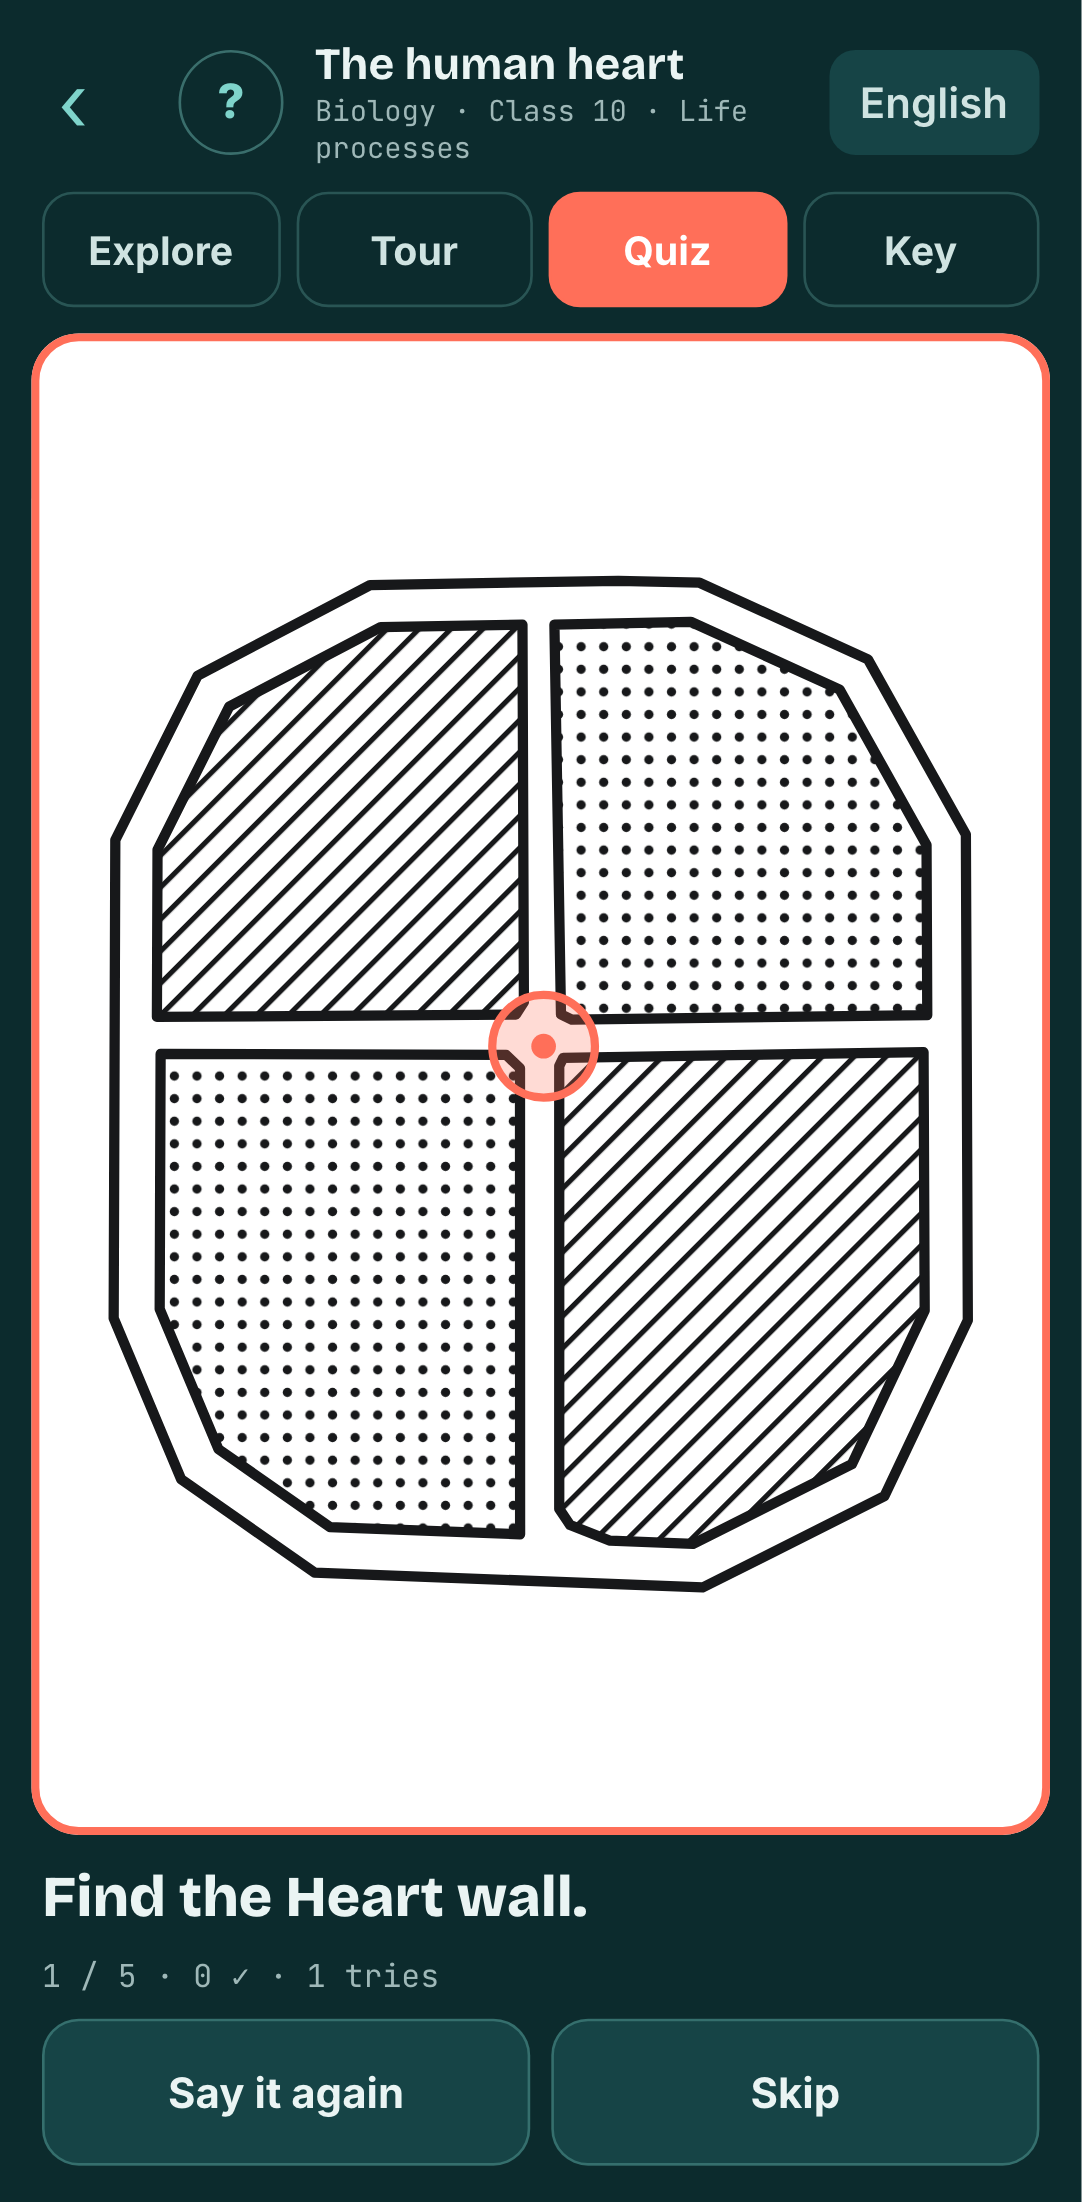
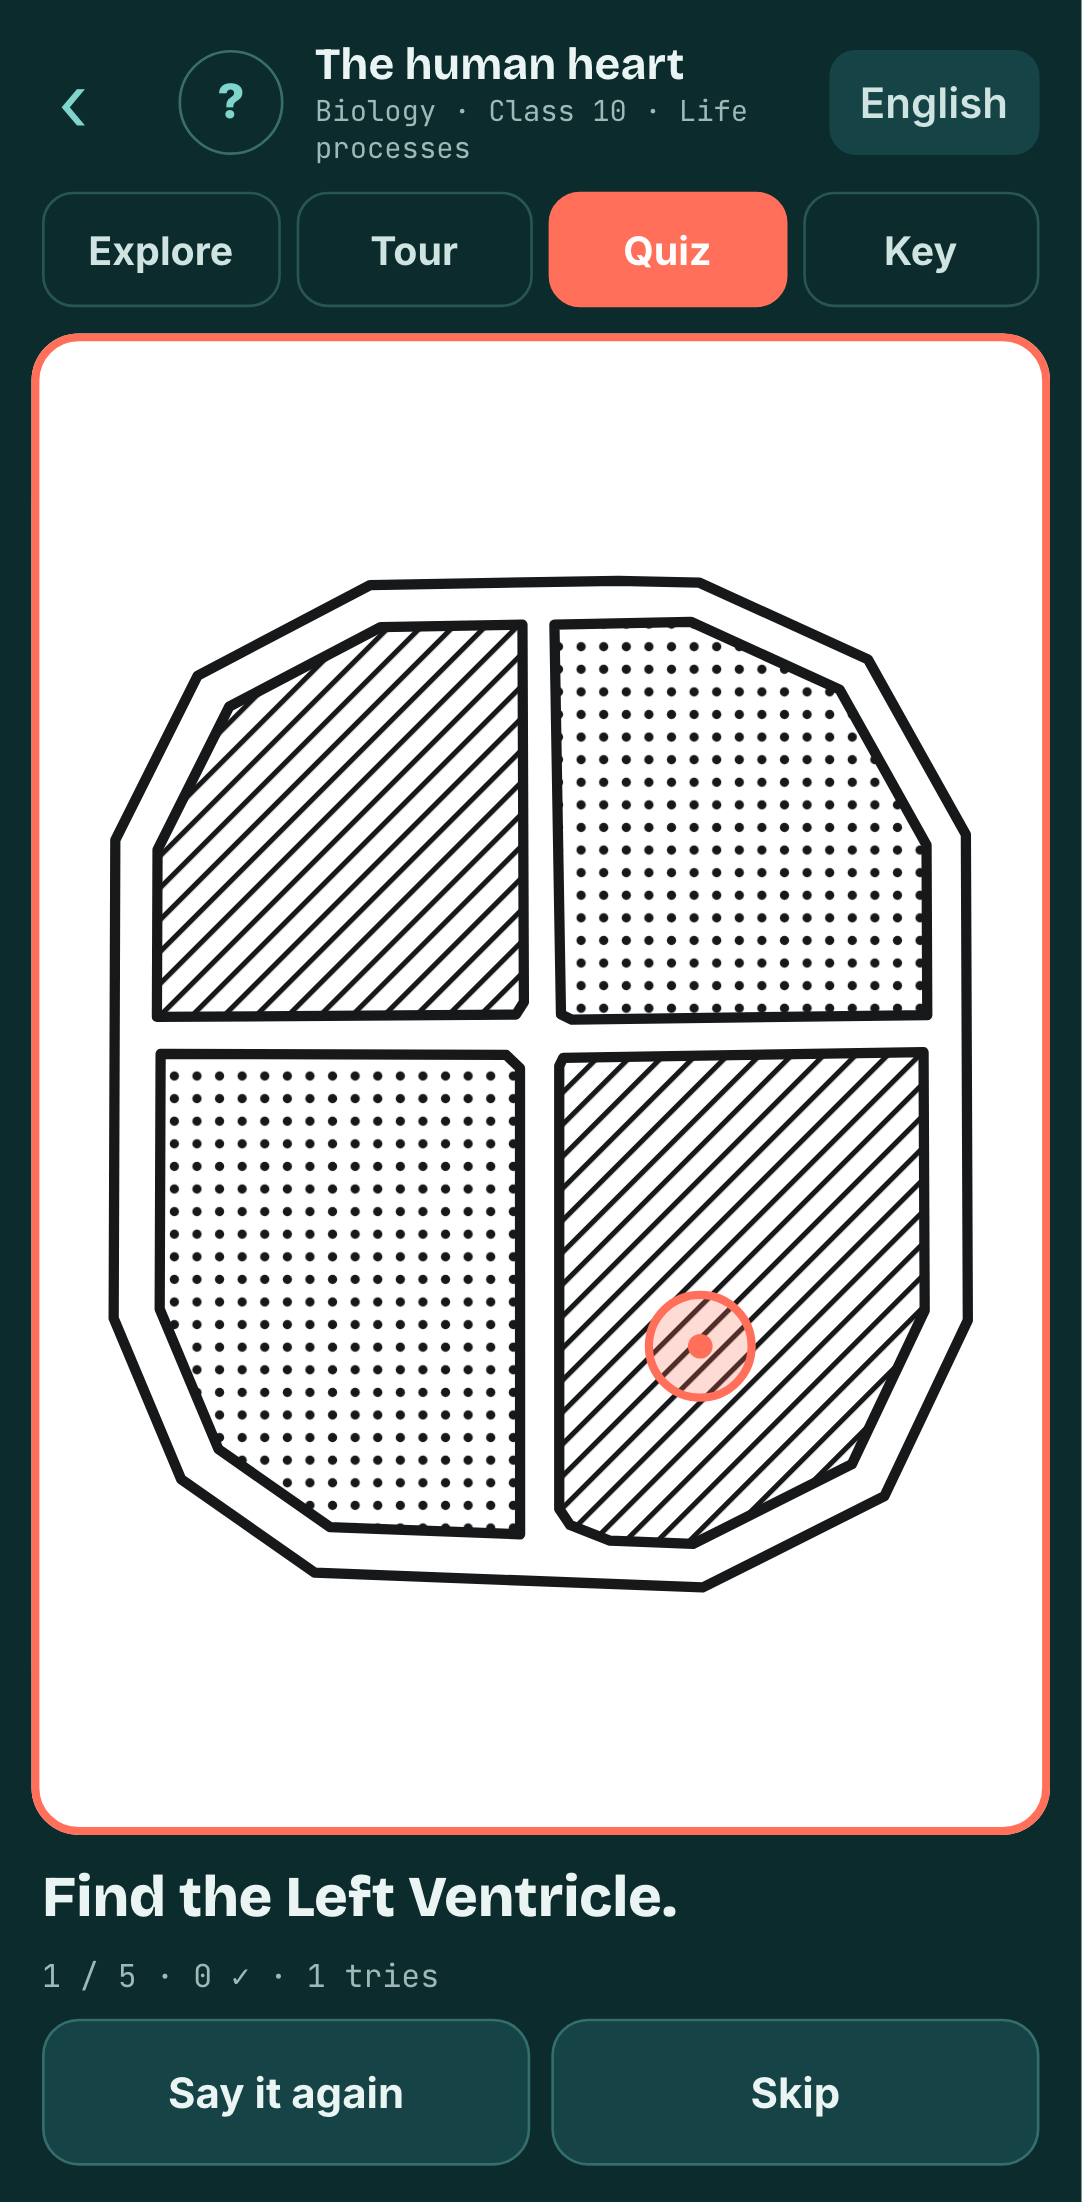
Sonification: a tone per texture under the finger

Changed region(s): [[0.2745, 0.8338, 0.61, 0.8955], [0.427, 0.4323, 0.549, 0.525], [0.5795, 0.5867, 0.7015, 0.6485]]

diff --git a/app/src/device/sound.ts b/app/src/device/sound.ts
@@ -1,0 +1,92 @@
+import type { Texture } from '../tdm/types'
+
+/**
+ * Sonification: a second tactile channel that works on every phone, including the ones with no vibration motor.
+ * While a finger rests on a part, a quiet tone plays: its pitch follows the finger's height on the sheet (higher up,
+ * higher note), its timbre is the part's texture (dots sing, diagonal lines buzz, horizontal lines hum, a grid
+ * chimes), and it pans left to right with the finger. Crossing a boundary clicks. Blank paper is silent.
+ */
+
+const KEY = 'touchsight-sound'
+export const soundEnabled = () => { try { return localStorage.getItem(KEY) !== 'off' } catch { return true } }
+export const setSoundEnabled = (on: boolean) => { try { localStorage.setItem(KEY, on ? 'on' : 'off') } catch { /* ignore */ } }
+
+const VOICE: Record<Texture, { type: OscillatorType; cutoff: number; level: number }> = {
+  dots: { type: 'sine', cutoff: 4000, level: 0.16 },
+  'diagonal-lines': { type: 'sawtooth', cutoff: 900, level: 0.10 },
+  'horizontal-lines': { type: 'square', cutoff: 500, level: 0.08 },
+  grid: { type: 'triangle', cutoff: 3000, level: 0.14 },
+  solid: { type: 'sine', cutoff: 300, level: 0.18 },
+  empty: { type: 'sine', cutoff: 1200, level: 0.05 },
+}
+const LINE = { type: 'triangle' as OscillatorType, cutoff: 1800, level: 0.12 }
+const F_LOW = 196, F_HIGH = 784 // G3 → G5 across the sheet's height
+
+export type SoundState = { on: boolean; freq: number; type: OscillatorType | null; pan: number; level: number; ticks: number }
+
+class Sound {
+  private ctx: AudioContext | null = null
+  private osc: OscillatorNode | null = null
+  private filter: BiquadFilterNode | null = null
+  private gain: GainNode | null = null
+  private pan: StereoPannerNode | null = null
+  private ducked = 1
+  state: SoundState = { on: soundEnabled(), freq: 0, type: null, pan: 0, level: 0, ticks: 0 }
+
+  private ensure() {
+    if (!this.state.on || typeof AudioContext === 'undefined') return null
+    if (!this.ctx) {
+      const ctx = new AudioContext()
+      const osc = ctx.createOscillator(), filter = ctx.createBiquadFilter(), gain = ctx.createGain(), pan = ctx.createStereoPanner()
+      filter.type = 'lowpass'; gain.gain.value = 0
+      osc.connect(filter).connect(gain).connect(pan).connect(ctx.destination)
+      osc.start()
+      this.ctx = ctx; this.osc = osc; this.filter = filter; this.gain = gain; this.pan = pan
+    }
+    if (this.ctx.state === 'suspended') this.ctx.resume().catch(() => {})
+    return this.ctx
+  }
+
+  /** finger over a part: x and y in 0..1 across the diagram, the part's texture, or a raised line */
+  move(x01: number, y01: number, texture: Texture | null, line = false) {
+    const ctx = this.ensure()
+    if (!ctx || !this.osc || !this.gain || !this.filter || !this.pan) return
+    const now = ctx.currentTime
+    if (texture === null && !line) { this.gain.gain.setTargetAtTime(0, now, 0.03); this.state.level = 0; return }
+    const v = line ? LINE : VOICE[texture!]
+    const freq = F_LOW * Math.pow(F_HIGH / F_LOW, Math.min(1, Math.max(0, 1 - y01)))
+    if (this.osc.type !== v.type) this.osc.type = v.type
+    this.osc.frequency.setTargetAtTime(freq, now, 0.02)
+    this.filter.frequency.setTargetAtTime(v.cutoff, now, 0.05)
+    this.pan.pan.setTargetAtTime(Math.min(1, Math.max(-1, x01 * 2 - 1)), now, 0.03)
+    this.gain.gain.setTargetAtTime(v.level * this.ducked, now, 0.04)
+    Object.assign(this.state, { freq: Math.round(freq), type: v.type, pan: +(x01 * 2 - 1).toFixed(2), level: v.level })
+    this.expose()
+  }
+
+  /** a boundary: a short click, independent of the tone */
+  tick() {
+    const ctx = this.ensure()
+    if (!ctx) return
+    const len = Math.round(ctx.sampleRate * 0.012)
+    const buf = ctx.createBuffer(1, len, ctx.sampleRate)
+    const d = buf.getChannelData(0)
+    for (let i = 0; i < len; i++) d[i] = (Math.random() * 2 - 1) * (1 - i / len)
+    const src = ctx.createBufferSource(), g = ctx.createGain()
+    g.gain.value = 0.25
+    src.buffer = buf; src.connect(g).connect(ctx.destination); src.start()
+    this.state.ticks++
+    this.expose()
+  }
+
+  lift() { if (this.ctx && this.gain) { this.gain.gain.setTargetAtTime(0, this.ctx.currentTime, 0.04); this.state.level = 0; this.expose() } }
+
+  /** quieter while the voice speaks */
+  duck(ms: number) { this.ducked = 0.3; if (this.ctx && this.gain && this.state.level) this.gain.gain.setTargetAtTime(this.state.level * 0.3, this.ctx.currentTime, 0.03); setTimeout(() => { this.ducked = 1 }, ms) }
+
+  setOn(on: boolean) { setSoundEnabled(on); this.state.on = on; if (!on) this.lift(); this.expose() }
+
+  private expose() { (window as unknown as { __tsSound?: SoundState }).__tsSound = { ...this.state } }
+}
+
+export const sound = new Sound()

diff --git a/app/src/routes/student/Explore.tsx b/app/src/routes/student/Explore.tsx
@@ -14,6 +14,8 @@ import { BrailleKey } from './Key'
 import { mirror } from '../../student/mirror'
 import { classroom, studentProfile } from '../../class/classroom'
 import { useTouchToAct, useGestures, type Gesture } from '../../student/a11y'
+import { sound } from '../../device/sound'
+import { diagramBox } from '../../tdm/geometry'
 
 type Mode = 'explore' | 'tour' | 'quiz' | 'key'
 
@@ -46,10 +48,10 @@ export function Explore() {
   }, [id])
 
   // ---- the device's three outputs, each logged for the projector and the harness
-  const say = useCallback((text: string, l: Lang = lang) => { log('say', text); setCaption(text); mirror.post({ type: 'say', text }); return speak(text, l) ?? wait(Math.min(2500, 250 + text.length * 45)) }, [lang])
+  const say = useCallback((text: string, l: Lang = lang) => { log('say', text); setCaption(text); mirror.post({ type: 'say', text }); sound.duck(Math.min(6000, 500 + text.length * 60)); return speak(text, l) ?? wait(Math.min(2500, 250 + text.length * 45)) }, [lang])
   const buzz = useCallback((p: Pulse) => { log('pulse', JSON.stringify(p)); vibrate(p) }, [])
   const hush = useCallback(() => { if (pending.current) { clearTimeout(pending.current); pending.current = null } }, [])
-  useEffect(() => () => { hush(); stopSpeech(); stopVibration() }, [hush])
+  useEffect(() => () => { hush(); stopSpeech(); stopVibration(); sound.lift() }, [hush])
   useEffect(() => { mirror.post({ type: 'mode', mode }) }, [mode])
 
   // ---- quiz
@@ -168,10 +170,18 @@ export function Explore() {
     const d = dwell.current
     if (d.id && tdm && now - d.since > 250) { const el = tdm.regions.find((r) => r.id === d.id) ?? tdm.lines.find((l) => l.id === d.id); if (el) classroom.activity({ kind: 'explore', diagramId: tdm.id, partId: d.id, partName: el.name.en, ms: Math.round(now - d.since) }) }
   }
+  const tone = (p: Point | null) => {
+    if (!tdm) return
+    if (!p) { sound.lift(); return }
+    const box = diagramBox(tdm, 0)
+    const id = st.current.id
+    const r = id ? tdm.regions.find((x) => x.id === id) : null, l = id && !r ? tdm.lines.find((x) => x.id === id) : null
+    sound.move((p[0] - box.x) / box.w, (p[1] - box.y) / box.h, r ? r.texture : null, !!l)
+  }
   const apply = (acts: Action[]) => {
     for (const a of acts) {
       if (a.do === 'pulse') buzz(a.pulse)
-      else if (a.do === 'hush') hush()
+      else if (a.do === 'hush') { hush(); if (st.current.down) sound.tick() }
       else if (a.do === 'focus') { const now = performance.now(); leavePart(now); dwell.current = { id: a.id, since: now }; if (mode !== 'quiz') setFocus(a.id) }
       else if (a.do === 'say' && mode !== 'quiz') { hush(); pending.current = window.setTimeout(() => { pending.current = null; say(a.text) }, a.after) }
     }
@@ -185,6 +195,7 @@ export function Explore() {
     setFinger(p)
     mirror.post({ type: 'finger', p, id: st.current.id })
     apply(step(tdm, st.current, p, performance.now(), lang))
+    tone(p)
   }
   const onLift = (e: React.PointerEvent) => {
     if (!tdm || mode === 'tour') return
@@ -192,6 +203,7 @@ export function Explore() {
     const p = toMm(e)
     apply(step(tdm, st.current, null, performance.now(), lang))
     leavePart(performance.now()); dwell.current = { id: null, since: 0 }
+    tone(null)
     setFinger(null)
     mirror.post({ type: 'finger', p: null, id: null })
     if (mode === 'quiz' && !qDone) answer(last, p)

diff --git a/app/src/routes/student/Library.tsx b/app/src/routes/student/Library.tsx
@@ -14,6 +14,7 @@ import { useSearchParams } from 'react-router-dom'
 import { classroom, studentProfile, setStudentProfile, type Incoming } from '../../class/classroom'
 import { useTouchToAct, introSeen, markIntroSeen, speakFirstEnabled, setSpeakFirst } from '../../student/a11y'
 import { stopSpeech } from '../../device/speech'
+import { sound } from '../../device/sound'
 
 type Score = { found: number; asked: number }
 
@@ -34,6 +35,7 @@ export function StudentLibrary() {
   const { handle, armed: armedCtl } = useTouchToAct(lang)
   const [intro, setIntro] = useState<'hidden' | 'waiting' | 'spoken'>(() => (introSeen() ? 'hidden' : 'waiting'))
   const [speakFirst, setSF] = useState(speakFirstEnabled)
+  const [snd, setSnd] = useState(sound.state.on)
   const [, bump] = useState(0)
   const say = (text: string) => { stopSpeech(); speak(text, lang) }
   useEffect(() => { const t = setInterval(() => setLink(classroom.state), 700); return () => clearInterval(t) }, [])
@@ -157,6 +159,7 @@ export function StudentLibrary() {
 
       <div className="st-settings" role="group">
         <button className={speakFirst ? 'on' : ''} aria-pressed={speakFirst} onClick={() => { const v = !speakFirst; setSpeakFirst(v); setSF(v); bump((n) => n + 1); say(v ? s.speakFirstOn : s.speakFirstOff) }}>{s.speakFirst}</button>
+        <button className={snd ? 'on' : ''} aria-pressed={snd} onClick={() => { const v = !snd; sound.setOn(v); setSnd(v); say(v ? s.soundOn : s.soundOff) }}>{s.sound}</button>
       </div>
 
       <section className="st-section">
